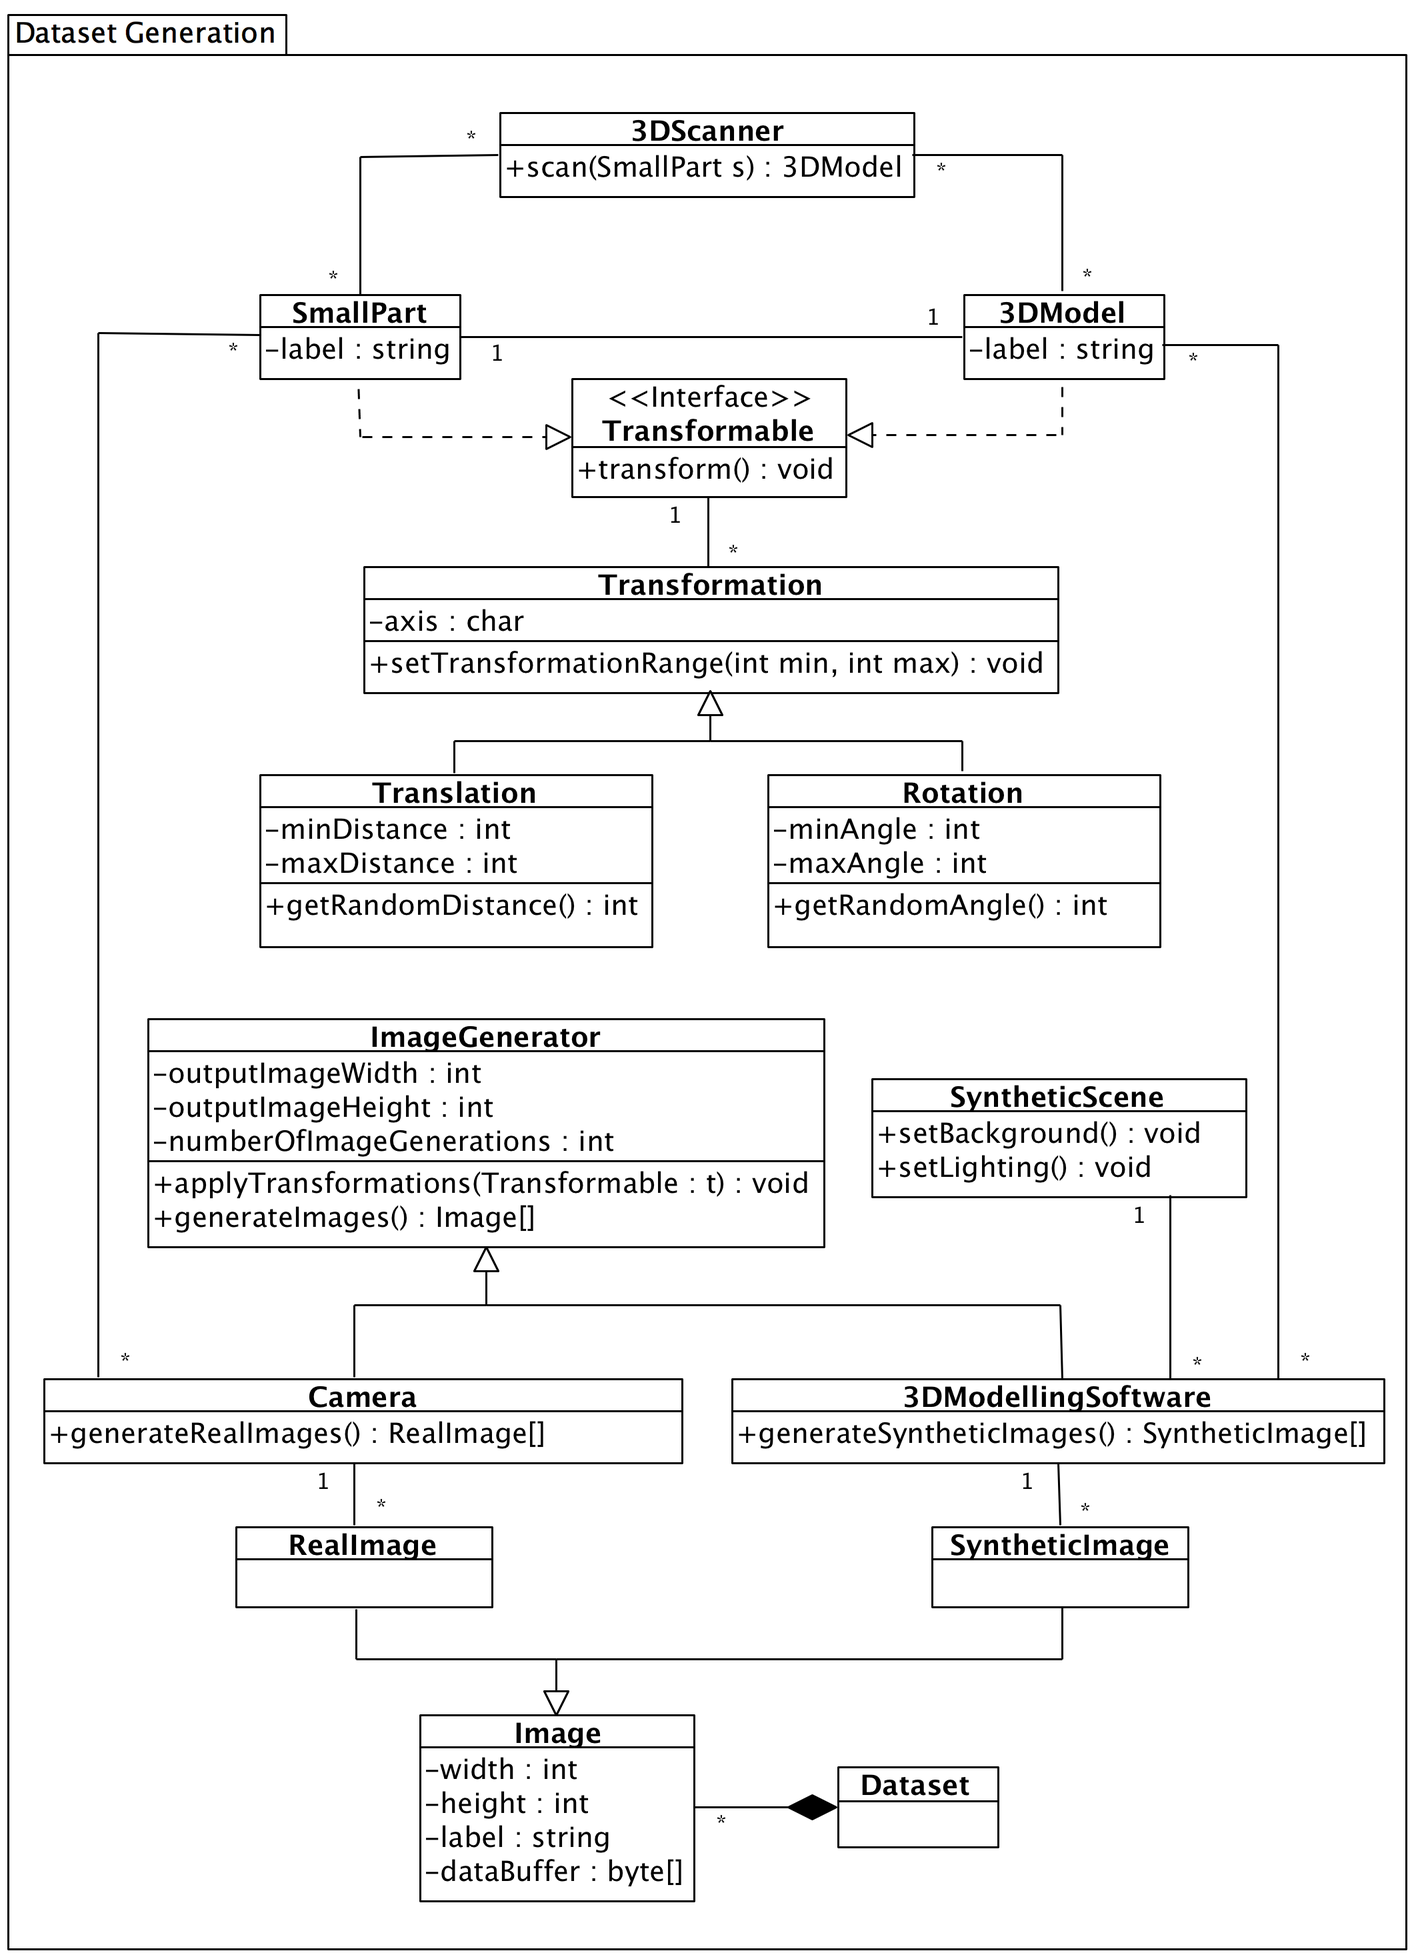
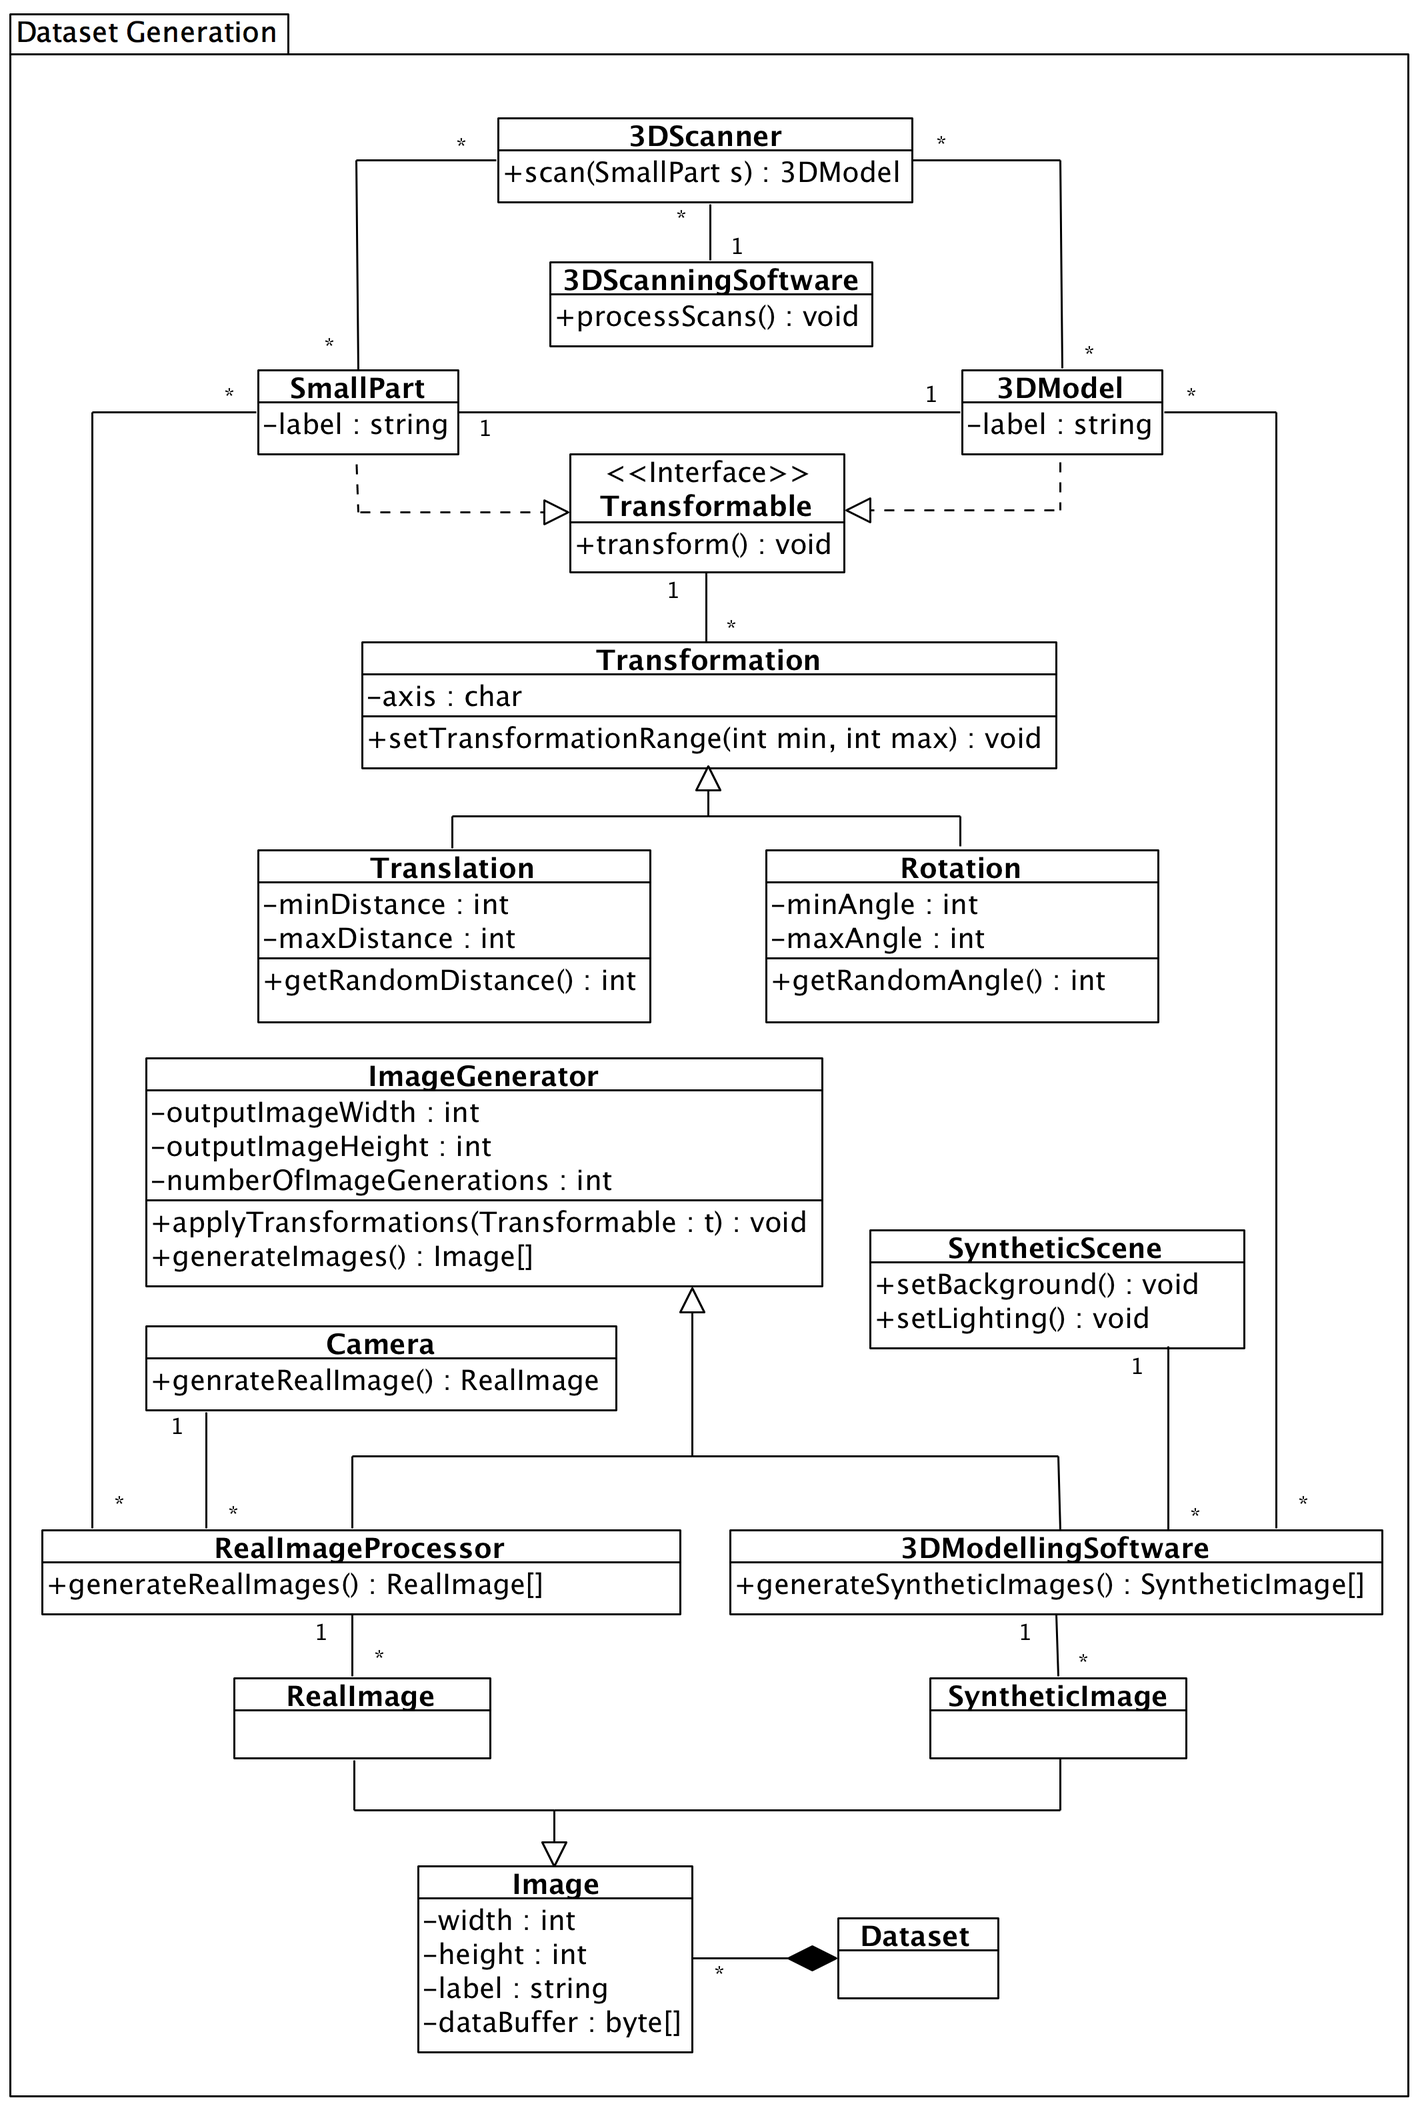
revamps system design

diff --git a/chapters/5-SystemDesign.tex b/chapters/5-SystemDesign.tex
@@ -1,86 +1,65 @@
 \chapter{System design}\label{ch:system_design}
 
-In the previous chapter, we have extracted the functional and non-functional requirements of our system. Subsequently, we broke down our system into use cases in the Use Case Model [\ref{fig:UCM}]. Furthermore, we have described the entities of our system and the relationships between them using an Analysis Object Models.
+In the previous chapter, we have extracted the functional and non-functional requirements of our system. Subsequently, we broke down our system into use cases in the use case model. Furthermore, we have described the entities of our system and the relationships between them using an Analysis Object Models and we presented 3 activity diagrams that depict the workflows in our system.
 
-In this chapter we map our analysis into the solution domain. We group the objects that we have identified in the Analysis Object Models into subsystems. The implementation details of our subsystems and the dependencies between them are also discussed.
+In this chapter we map our analysis into the solution domain. We first identify our design goals in section \ref{sec:design_goals}. In section \ref{sec:subsystem_decomposition}, we group the objects that we have identified in the analysis object models into subsystems, and we discuss the dependencies between those subsystems. In section \ref{sec:hardware_software_mapping} we present the hardware and software components used to implement our system. Lastly, section \ref{sec:persistent_data_management} presents the structure of our system's persistent data.
 
-\section{Design Goals}
 
-In the previous chapter we have defined our Non-functional requirements. In this chapter, we use those non-functional requirements to extract our design goals, and we use those design goals as a compass for our system design. Defining our design goals allows us make consistent design decisions accross our different subsystems. Table \ref{tab:DG} lists our non-functional requirements and their corresponding design goal. There are 5 types of possible design criteria from which the design goals can be selected: performance, dependability, cost, maintenance and end user criteria \cite{bruegge2004object}.
+\section{Design Goals}\label{sec:design_goals}
+
+In the previous chapter we have defined our non-functional requirements. In this section, we use those non-functional requirements to extract our design goals, and we use those design goals as a compass for our system design. Defining our design goals allows us to make consistent design decisions accross our different subsystems. Table \ref{tab:DG} lists our non-functional requirements and their corresponding design goal. There are 5 types of possible design criteria from which the design goals can be selected: performance, dependability, cost, maintenance and end user criteria \cite{bruegge2004object}.
 
 \begin{table}
   \centering
   \begin{tabular}{ | l | p{5cm} | l | }
     \hline
     \textbf{Requirement} & \textbf{Design Goal} & \textbf{Criteria} \\ \hline
-    \textbf{Adaptability} & The system should be dynamic enough to accomodate the addition of new classes. & Performance \\ \hline
-    \textbf{Accuracy} & The system should be able to classify different small parts with high accuracy. & Performance \\ \hline
+    \textbf{Adaptability} & The system should create a convolutional neural network that can accomodate the addition of new classes. & Performance \\ \hline
+    \textbf{Accuracy} & The system should utilize real and synthetic images to train a CNN model to classify different small parts with high accuracy. & Performance \\ \hline
   \end{tabular}
-  \caption{Non-functional requirements and their corresponding design goals}
+  \caption{Non-functional requirements and their corresponding design goals.}
   \label{tab:DG}
 \end{table}
 
-\section{Subsystem Decomposition}
 
-Figure \ref{fig:SSD} depicts the system's subsystem decomposition. Our system is divided into 3 subsytems: SyntheticImages, RealImages and ImageClassifier.
+\section{Subsystem Decomposition}\label{sec:subsystem_decomposition}
 
-\subsection{SyntheticImages}
-SyntheticImages is responsible for providing our system with synthetic images. It consists of 2 main components: SyntheticScene and SyntheticImageGenerator. The SyntheticScene generates an artificial environment and places a 3DModel inside said environment. The SyntheticImageGenerator renders 2D images of the 3D artificial scene.
+Figure \ref{fig:SSD} depicts our system's subsystem decomposition. Our system is divided into 3 subsytems. \textbf{SyntheticImageSubsystem} is responsible for providing our system with synthetic images. It consists of 4 main components: \textbf{3DScanner}, \textbf{3DScanningSoftware}, \textbf{3DScanningSoftware}, \textbf{SyntheticScene} and \textbf{3DModelingSoftware}. The 3DScanner scans small parts and ouputs raw 3D model, which are processes by the 3DModelingSoftware to produce a 3D model. The SyntheticScene generates an artificial environment. The 3DModelingSoftware places the 3D models in the environment created by SyntheticScene, and renders 2D images of the 3D models.
 
-\subsection{RealImages}
-The RealImages is the counterpart of SyntheticImages. It is responsible for providing our system with real images. The RealImageGenerator uses the Camera to take real images of the small parts. Next, the RealImageGenerator performs some processing on the raw images to provide our system with real images that can be used out of the box.
+On the other hand, \textbf{RealImageSubsystem} is responsible for providing our system with real images. The \textbf{Camera} is used to take real images of the small parts. Next, the \textbf{RealImageProcessor} resizes the raw images to provide our system with real images that can be used out of the box.
 
-\subsection{ImageClassifier}
-ImageClassifier consumes both the real and syntheic images, and stores them in a Dataset. The images are then fed to the DataSplitGenerator, which is in turn responsible for splitting the data into a training set, a validation set and a testing set.
-
-The CNNModel consumes the training set and the validation set to utilize them during the training phase. The testing set is then used to determine the accuracy of the trained CNNModel.
+The synthetic images created by the SyntheticImageSubsystem and the real images created by the RealImageSubsystem are both sent to the \textbf{ImageClassifierSubsystem}. The ImageClassifierSubsystem in turn combines both image sets to create a \textbf{Dataset}. The images are then fed to the \textbf{DatasetSplitter}, which is in turn responsible for splitting the data into a training set, a validation set and a testing set. The \textbf{CNNModel} utilizes the training and validation sets during the training phase. The testing set is then used to determine the accuracy of the trained CNNModel.
 
 \begin{figure}[H]
 \centering
   \includegraphics[width=\textwidth]{SSD}
-\caption{Subsystem decomposition showing the different subsystems and the relationships between them.}
+\caption{Subsystem decomposition showing the SyntheticImageSubsystem, the RealImageSubsystem, the ImageClassifierSubsystem and the relationships between them.}
 \label{fig:SSD}
 \end{figure}
 
-\section{Hardware Software Mapping}
-This section describes how the subsystems are mapped onto existing hardware and software components. Figure \ref{fig:DD} depicts the deployment diagram of our system. Our system contains 4 hardware devices: 2 Ubuntu machines, a Windows machine and a Camera.
+
+\section{Hardware Software Mapping}\label{sec:hardware_software_mapping}
+
+This section describes how the subsystems are mapped onto existing hardware and software components. Figure \ref{fig:DD} depicts the deployment diagram of our system. The \textbf{SyntheticImageGenerator} device is used to run 2 execution environments: the \textbf{Artec Studio}\footnote{https://www.artec3d.com/3d-software/artec-studio} 3D scanning software, and the \textbf{Rhinoceros}\footnote{https://www.rhino3d.com} 3D modeling software. Artec Studio is used to process the scans produced by the \textbf{3DScanner}\footnote{https://www.artec3d.com/portable-3d-scanners/artec-spider} device. The 3DScanner is the Artec Space Spider. The Windows version of Rhinoceros is chosen because it supports extra features that are not available on the Ubuntu or Mac versions. We use Rhinoceros to construct the SyntheticScene. Moreover, Rhinoceros hosts a \textbf{Python} execution environment. We use the Python interpreter to render synthetic images on Rhinoceros.
+
+The \textbf{Camera} is used to capture raw images of the small parts. We use the Camera application on an iPhone 6. The \textbf{RealImageGenerator} runs a Python environment. We use the Python commands to resize the the raw images of the small parts captured by the camera. The resized real images are then ready to be fed to the image classifier.
+
+The Dataset is stored in the file system of the \textbf{ImageClassifier} device. We use the device's Python environment to run the Datasplitter and the CNNModel. Furthermore, we use \textbf{Keras} \cite{chollet2015keras}, a neural networks API that provides out-of-the-box CNN implementations. The ImageClassifier deviceis equipped with a Graphics processing unit (GPU). The GPU is used for parallel processing of the Convolutional Neural Network training algorithm. This enhancement significantly slashes down the time needed to train a CNN.
 
 \begin{figure}[h]
 \centering
   \includegraphics[width=\textwidth]{DD}
-\caption{System Deployment Diagram}
+\caption{System Deployment Diagram depicting the different hardware and software components used to implement our system.}
 \label{fig:DD}
 \end{figure}
 
-\subsection{SyntheticImages}
-The SyntheticImages device is used to run the Rhinoceros 3D modeling software\footnote{https://www.rhino3d.com}. The Windows version of Rhinoceros is chosen because it supports extra features that are not available on the Ubuntu or Mac versions. We use Rhinoceros to model the SyntheticScene. Moreover, Rhinoceros hosts a python interpreter, which is used to run the SyntheticImageGenerator.
+\section{Persistent Data Management}\label{sec:persistent_data_management}
 
-\subsection{Camera}
-The Camera is used to capture raw images of the small parts. We use the Camera application on an iPhone 6.
-
-\subsection{RealImages}
-The RealImageGenerator uses the Camera device to generate raw real images. The raw real images are then processed by the RealImageGenerator and become ready to be used out of the box.
-
-\subsection{ImageClassifier}
-TThe Dataset is stored in the file system of the ImageClassifier device. We use the device's Python environment to run the DataSplitGenerator and the CNNModel. Furthermore, we use Keras, a neural networks API that provides out-of-the-box CNN implementations \cite{chollet2015keras}. This Ubuntu Machine is equipped with a Graphics processing unit (GPU). The GPU is used for parallel processing of the Convolutional Neural Network training algorithm. This enhancement significantly slashes down the time needed to train a CNN.
-
-\section{Persistent Data Management}
-
-While our system has no need for a database, the implementation of the ImageClassifier requires the output folder of the DataSplitGenerator to be organized in a certain way. The file structure of the DataSplit is shown in figure \ref{fig:FS}.
-
-\subsection{DataSplit Root Folder}
-The DataSplitGenerator outputs file structure. The root folder contains one folder per small part. Each folder is named after its respective Small Part's label.
-
-\subsection{DataSplit Second Level Folder}
-As mentioned above, each Small Part has an assigned folder. This folder, in turn, contains 3 folders: one for training data, one for validation and one for testing.
-
-\subsection{DataSplit Files}
-Lastly, each training, validation and testing folder contains a set of images that belong to a specific small part.
-
+The implementation of the ImageClassifier requires the split dataset to be organized in a certain way. The file structure of the dataset is shown in figure \ref{fig:FS}. The root folder contains one folder per small part. Each folder is named after its respective small part's label. This folder, in turn, contains 3 folders: one for training images, one for validation and one for testing. Lastly, each training, validation and testing folder contains a set of images that belong to a specific small part.
 
 \begin{figure}[h]
 \centering
   \includegraphics[width=0.8\textwidth]{FS}
-\caption{DataSplit file structure model displaying how the data split generator organizes the images before feeding them to the ImageClassifier.}
+\caption{Dataset file structure model displaying how the split dataset is organized before being fed as input to the image classifier. Each subfolder in the Dataset root directory is named after a small part label.}
 \label{fig:FS}
 \end{figure}

diff --git a/chapters/4-Analysis.tex b/chapters/4-Analysis.tex
@@ -268,13 +268,13 @@ The synthetic and real image sets are combined to form a dataset. Training a cla
 The analysis object model is a visual dictionary of the main concepts visible to the user \cite{bruegge2004object}. The analysis object model depicts a system's entites, their corresponding attributes and functions, and illustrates the relationship between said entitie. Figure \ref{fig:AOM1} and figure \ref{fig:AOM2} are represent the analysis object models of our system. We divide our model into 2 UML packages, namely, \textit{Dataset Generation} and \textit{Image Classification} depicted in figures \ref{fig:AOM1} and \ref{fig:AOM2} respectively. Dataset Generation presents the objects required to create 3d models of small parts and subsequently generate a dataset of real and synthetic images. Image Classification displays the objects used to utilize the generated dataset for the training and evaluation of a CNN model, which we use to classify our small parts.
 
 \subsubsection{Dataset Generation}
-To generate our dataset, we first need to create \textbf{3DModels} of our \textbf{SmallParts}. A \textbf{3DScanner} is used to scan a SmallPart and generate the corresponding 3DModel. Each SmallPart and its reciprocal 3DModel have a label string which it later used by the image classifier as the object class.
+To generate our dataset, we first need to create \textbf{3DModels} of our \textbf{SmallParts}. A \textbf{3DScanner} and a compatible \textbf{3DScanningSoftware} are used to scan a SmallPart and generate the corresponding 3DModel. Each SmallPart and its reciprocal 3DModel have a label string which it later used by the image classifier as the object class.
 
 SmallParts and 3DModels both implement the \textbf{Transformable} interface. Each Transformable has multiple \textbf{Transformations}, and can apply the transform function. Transformation is an abstraction of \textbf{Translation} and \textbf{Rotation}. Each Transformation has an axis (x, y or z) and a range; Translations define minmum and maximum distances, while Rotations define minimum and maximum angles. Aditionally, each transformation has a function to generate a random value within the defined range. This function is used to transform the object randomly before generating a real or synthetic image.
 
-\textbf{ImageGenerator} is a generalization of \textbf{Camera}, which generates \textbf{RealImages}, and \textbf{3DModelingSoftware}, which generates \textbf{SyntheticImages}. ImageGenerators define the output number of images, as well as their width and height. Moreover, they apply random transformations to their target transformable before generating each image. Each 3DModelingSoftware has a \textbf{SyntheticScene} where the background and lighting conditions of the synthetic images are defined.
+\textbf{ImageGenerator} is a generalization of \textbf{RealImageProcessor}, which uses the \textbf{Camera} to generate \textbf{RealImages}, and \textbf{3DModelingSoftware}, which generates \textbf{SyntheticImages}. ImageGenerators define the output number of images, as well as their width and height. Moreover, they apply random transformations to their target transformable before generating each image. Each 3DModelingSoftware has a \textbf{SyntheticScene} where the background and lighting conditions of the synthetic images are defined.
 
-RealImage and SyntheticImage are both specializations of the \textbf{Image} class. Each Image has a width, height, label (which corresponds to the label of the depicted SmallPart of 3DModel), and a data buffer which holds the values of the image pixels. Lastly, the \textbf{Dataset} is a composition of multiple Images.
+RealImage and SyntheticImage are both specializations of the \textbf{Image} class. Each Image has a width, height, label (corresponding to the label of the depicted SmallPart of 3DModel), and a data buffer which holds the values of the image pixels. The \textbf{Dataset} is a composition of multiple Images.
 
 \begin{figure}[H]
 \centering
